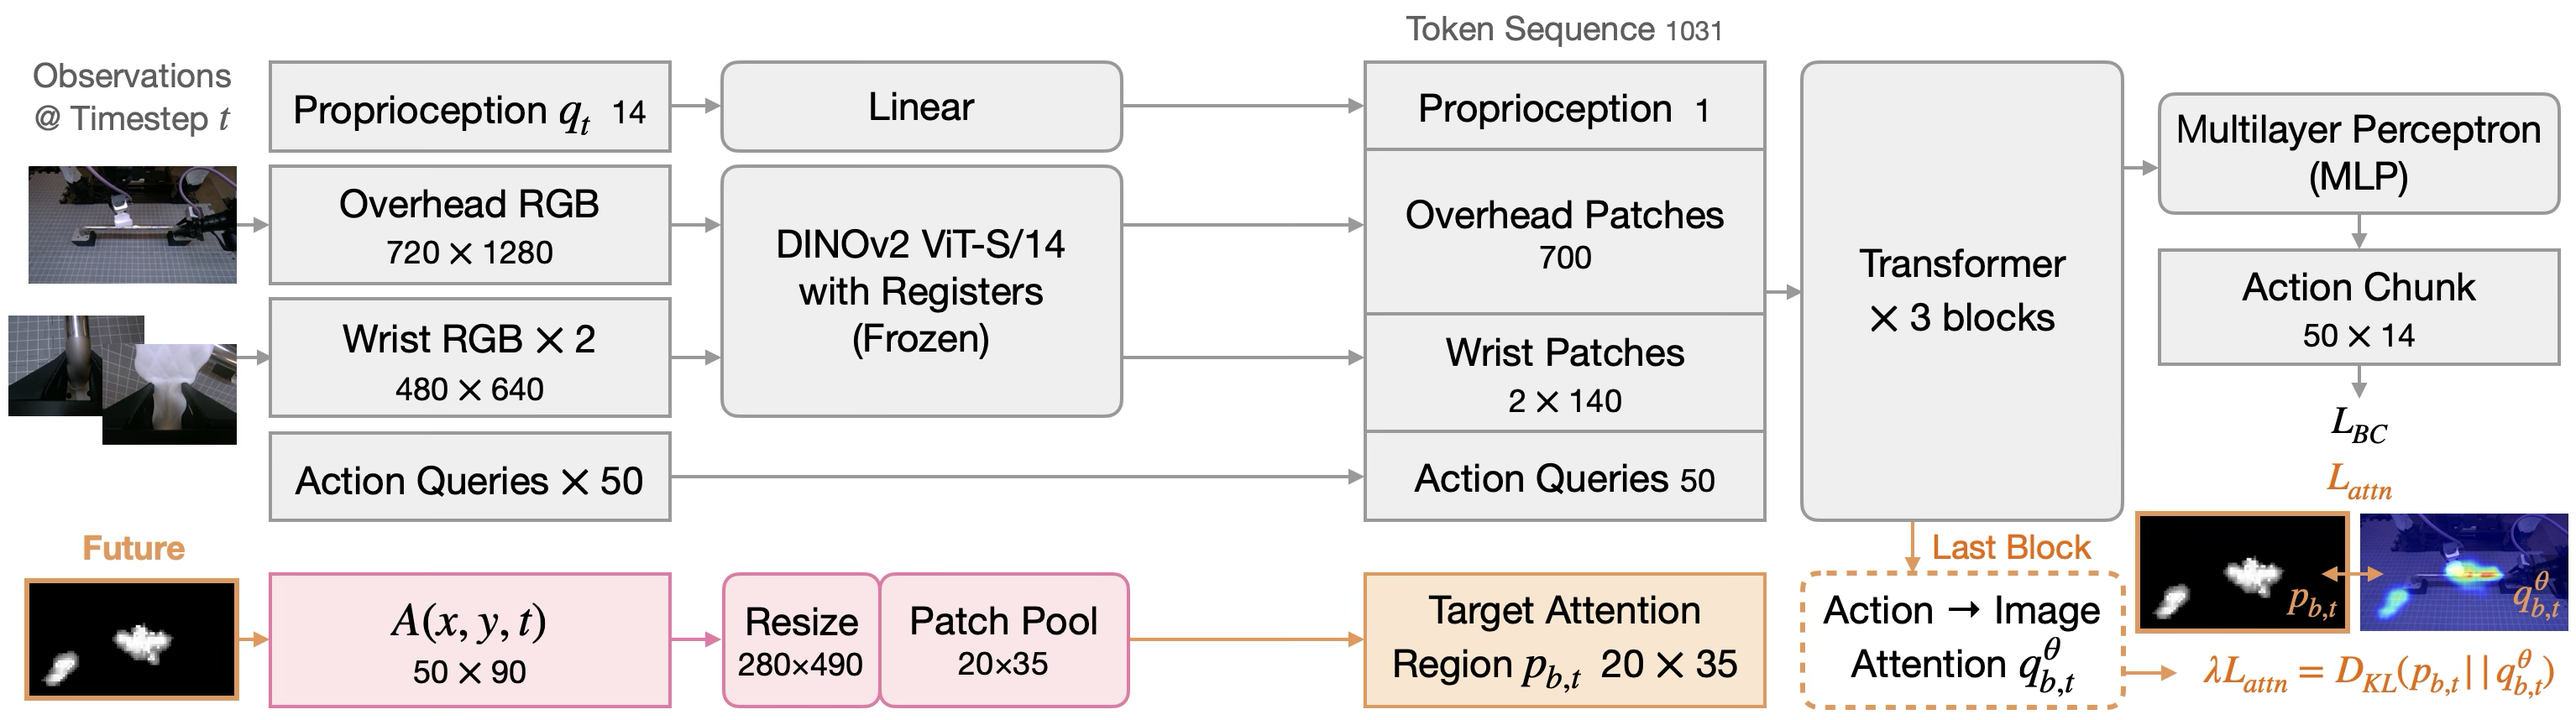
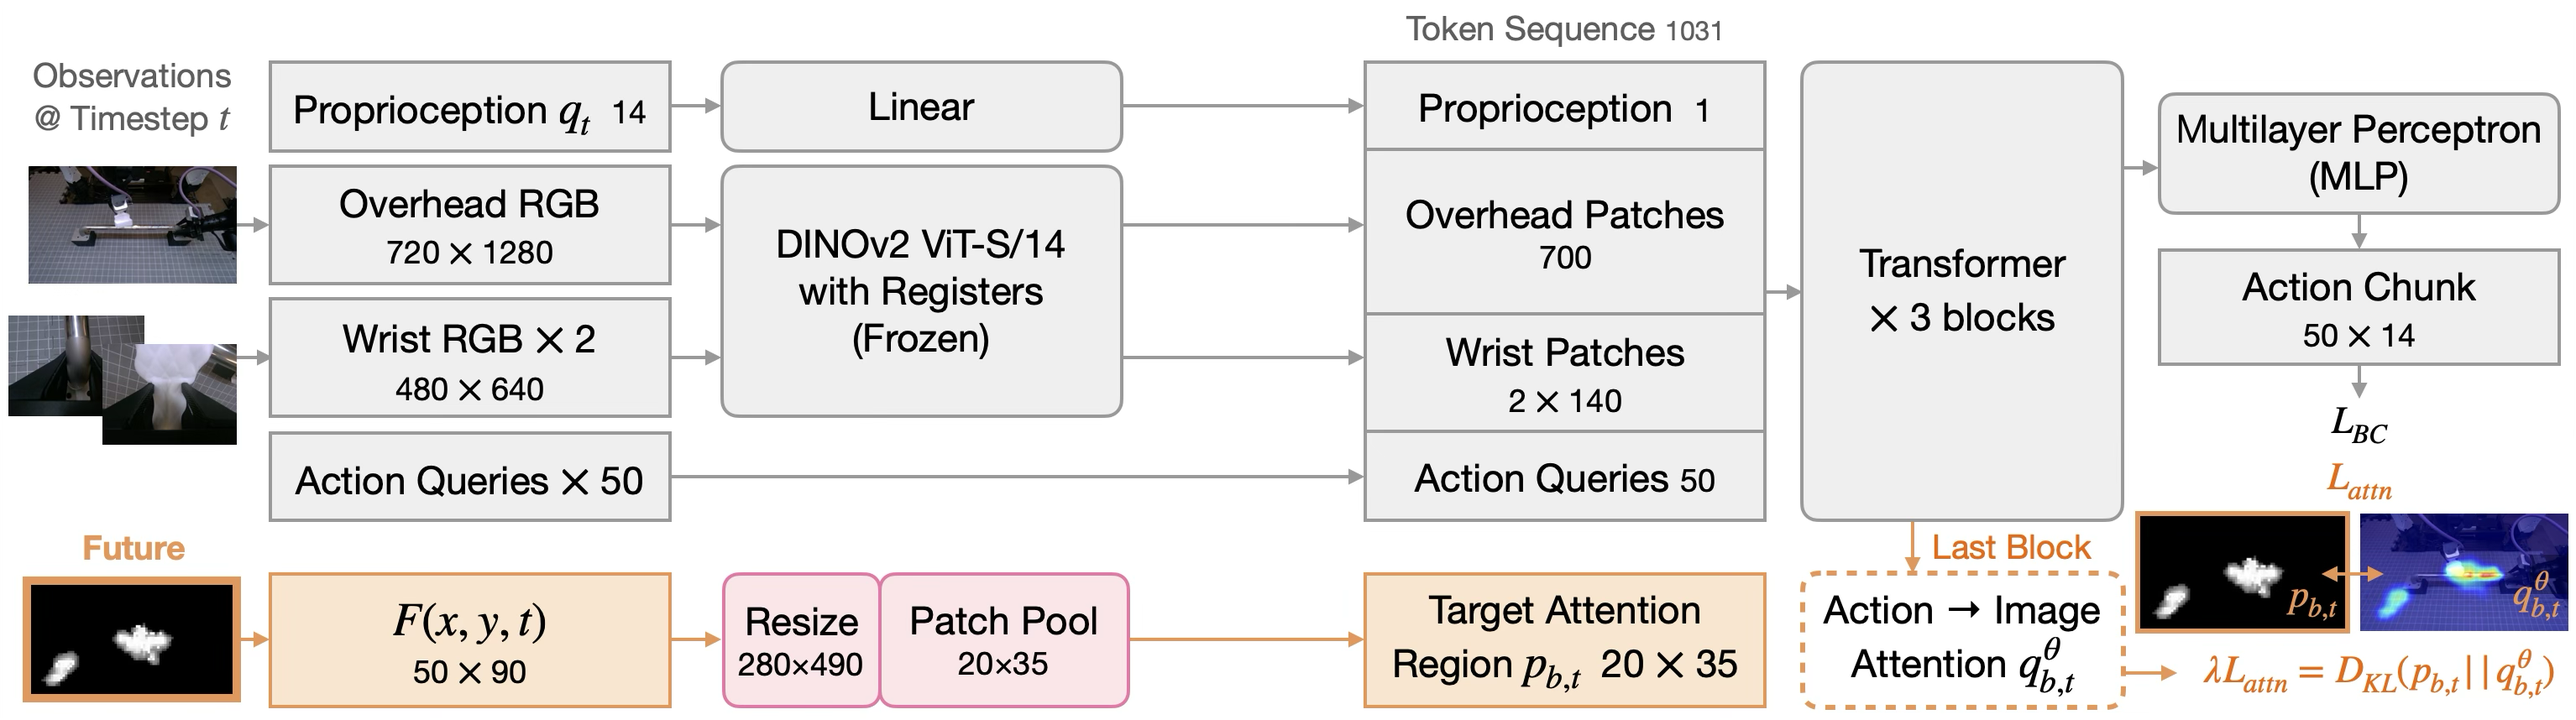
site content updates

Changed region(s): [[0.0, 0.7879, 0.2787, 1.0], [0.2477, 0.8788, 0.2787, 0.9091]]

diff --git a/index.html b/index.html
@@ -140,13 +140,8 @@
         <p>
           A low-cost microphone array captures the sound field around the workspace. Combined with
           a co-registered RGB camera, we can localize sound sources over time and project them onto
-          the same image plane the policy already sees.
+          the same image plane.
         </p>
-        <ul class="feature-list">
-          <li>Microphone array — off-the-shelf, calibrated to the RGB frame</li>
-          <li>Acoustic beamforming — spatial audio in the image plane</li>
-          <li>RGBA overlay — a drop-in replacement for RGB observations</li>
-        </ul>
       </div>
     </div>
   </div>
